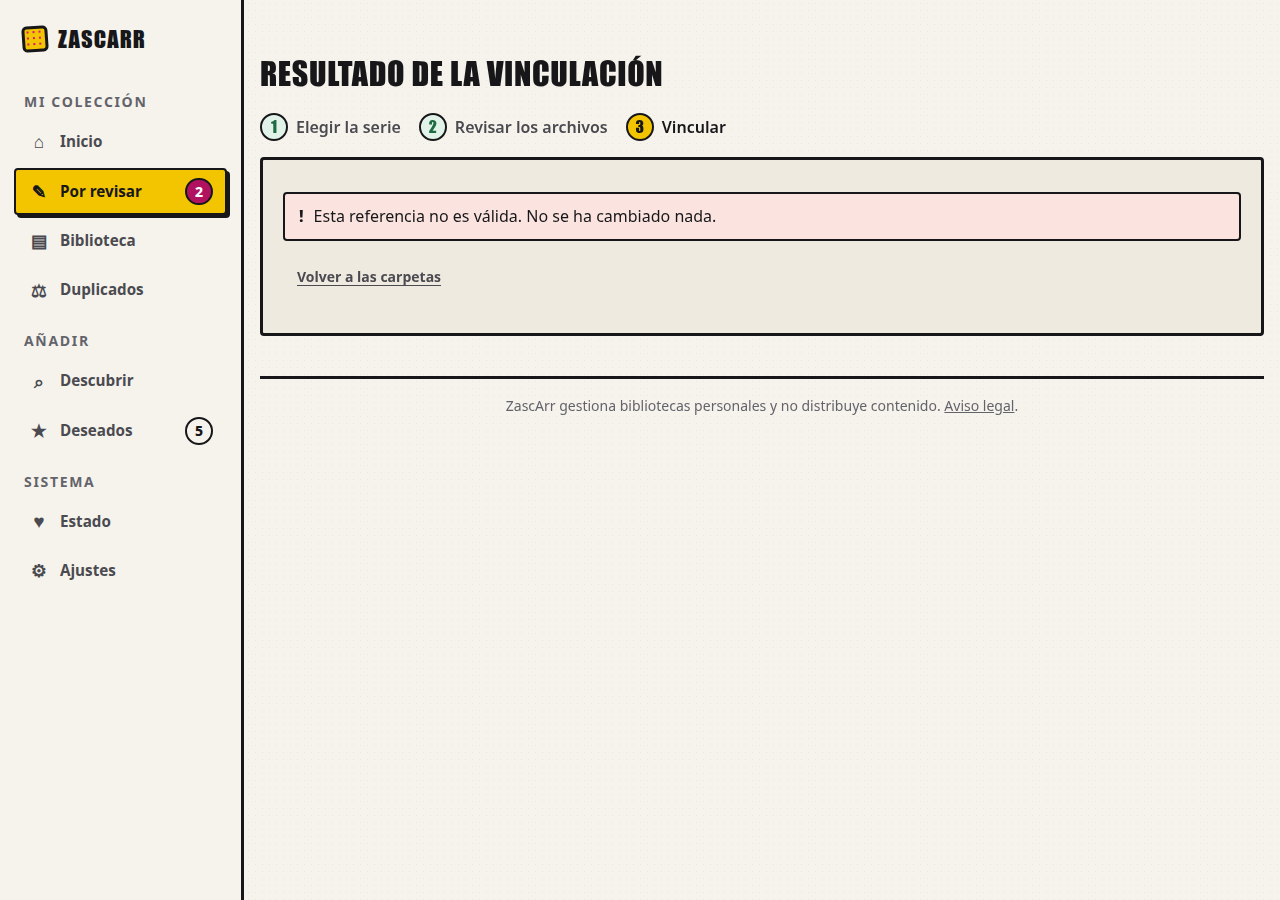
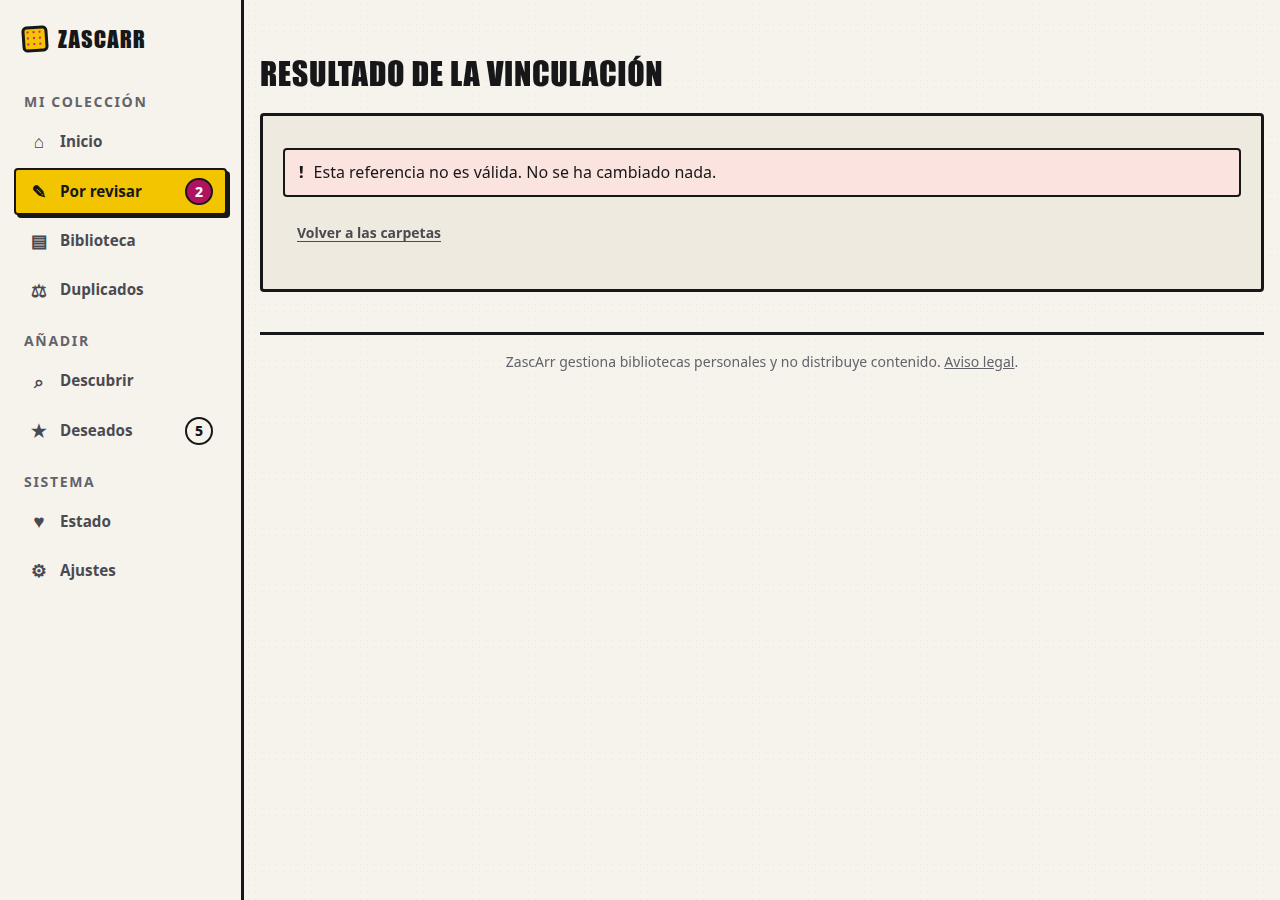
u19: textos largos como nota discreta, datos simulados coherentes y ruff sin deuda nueva

Changed region(s): [[0.1875, 0.1244, 1.0, 0.3733], [0.2188, 0.3733, 0.9688, 0.4667]]

diff --git a/src/zascarr/web/templates/_asistente_eleccion.html b/src/zascarr/web/templates/_asistente_eleccion.html
@@ -11,7 +11,7 @@
     {% if eleccion_sugerida %}<dt>La fuente sugería</dt><dd>{{ eleccion_sugerida }} (era solo una sugerencia)</dd>{% endif %}
   </dl>
   {% include plantilla %}
-  <p class="caption">Puedes recargar o volver a esta vista previa sin perder la elección durante 15 minutos: <a href="/ui/pendientes/carpetas/asistente/alta?clave={{ clave | urlencode }}&amp;candidata={{ candidata | urlencode }}&amp;tradition={{ tradition | urlencode }}{% if consulta %}&amp;consulta={{ consulta | urlencode }}{% endif %}">enlace a esta vista previa</a>.</p>
+  <p class="muted">Puedes recargar o volver a esta vista previa sin perder la elección durante 15 minutos: <a href="/ui/pendientes/carpetas/asistente/alta?clave={{ clave | urlencode }}&amp;candidata={{ candidata | urlencode }}&amp;tradition={{ tradition | urlencode }}{% if consulta %}&amp;consulta={{ consulta | urlencode }}{% endif %}">enlace a esta vista previa</a>.</p>
   <p><a class="btn ghost sm" href="/ui/pendientes/carpetas/asistente?clave={{ clave | urlencode }}{% if consulta %}&amp;consulta={{ consulta | urlencode }}{% endif %}">Elegir otra</a>
      <a class="btn ghost sm" href="/ui/pendientes/carpetas">Volver a las carpetas</a></p>
 </div>

diff --git a/src/zascarr/web/templates/_vinculacion_resultado.html b/src/zascarr/web/templates/_vinculacion_resultado.html
@@ -54,7 +54,7 @@
       {% if t.issues_creados %}<li data-total="issues_creados">{{ ui.chip("info", t.issues_creados ~ " números nuevos en la serie") }}</li>{% endif %}
     </ul>
     <p class="caption">Vincular conserva el nombre y la carpeta de cada archivo: no se ha movido ni renombrado nada.</p>
-    {% if ref %}<p class="caption">Si recargas o vuelves a esta pantalla, el resultado sigue disponible mientras no venza el plazo de 24 horas desde que se preparó la vinculación: <a href="{{ ruta_resultado }}?ref={{ ref | urlencode }}">enlace a este resultado</a>.</p>{% endif %}
+    {% if ref %}<p class="muted">Si recargas o vuelves a esta pantalla, el resultado sigue disponible mientras no venza el plazo de 24 horas desde que se preparó la vinculación: <a href="{{ ruta_resultado }}?ref={{ ref | urlencode }}">enlace a este resultado</a>.</p>{% endif %}
   </section>
 
   {% if grupos.vinculado %}

diff --git a/src/zascarr/web/templates/asistente_carpeta.html b/src/zascarr/web/templates/asistente_carpeta.html
@@ -39,7 +39,7 @@
     <input id="asistente-consulta" type="search" name="consulta" maxlength="200" value="{{ consulta_escrita or apertura.consulta_propuesta }}"
            placeholder="Título de la serie…" autocomplete="off">
     {% if consulta_escrita %}
-    <p class="caption">Es la búsqueda que escribiste. Los resultados no se conservan —buscar de nuevo consulta las fuentes—: pulsa «Buscar en las fuentes» si quieres repetirla.</p>
+    <p class="muted">Es la búsqueda que escribiste. Los resultados no se conservan —buscar de nuevo consulta las fuentes—: pulsa «Buscar en las fuentes» si quieres repetirla.</p>
     {% elif apertura.consulta_propuesta %}
     <p class="caption">Propuesta a partir del nombre de la carpeta o de los archivos. Puedes cambiarla antes de buscar.</p>
     {% else %}

diff --git a/src/zascarr/web/templates/asistente_alta.html b/src/zascarr/web/templates/asistente_alta.html
@@ -12,7 +12,7 @@
   <h2 id="alta-carpeta">{{ clave }}</h2>
   {% if aviso %}
   {{ ui.aviso("warn", aviso) }}
-  <p class="caption">«Volver a elegir» abre el asistente con tu búsqueda escrita, pero no la lanza: buscar de nuevo consulta las fuentes y lo decides tú.</p>
+  <p class="muted">«Volver a elegir» abre el asistente con tu búsqueda escrita, pero no la lanza: buscar de nuevo consulta las fuentes y lo decides tú.</p>
   {% else %}
   {% include plantilla %}
   {% endif %}

diff --git a/docs/design/ui-u19/fragmentos_u19.py b/docs/design/ui-u19/fragmentos_u19.py
@@ -37,15 +37,15 @@ CLAVE_GRUPO = "_Unsorted"
 def main(fichero_clave: str, serie_id: str, titulo_local: str, salida: str) -> None:
     secreto = open(fichero_clave, encoding="utf-8").read().strip()
 
-    def tok(id_, titulo, anio):
-        return crear_token_candidata(CLAVE_GRUPO, candidata_firmable("comic_vine", id_, titulo, anio, "american", None, None), secreto)
+    def tok(fuente, id_, titulo, anio, tradicion):
+        return crear_token_candidata(CLAVE_GRUPO, candidata_firmable(fuente, id_, titulo, anio, tradicion, None, None), secreto)
 
     parecida = SerieParecida(series_id=serie_id, titulo=titulo_local, anio=2015, tradicion="american", motivo="mismo_titulo")
     candidatas = [
-        Candidata(token=tok("4050", "Mundo Cobalto", 2015), fuente="comic_vine", titulo="Mundo Cobalto", anio=2015,
+        Candidata(token=tok("comic_vine", "4050", "Mundo Cobalto", 2015, "american"), fuente="comic_vine", titulo="Mundo Cobalto", anio=2015,
                   tradicion_sugerida="american", sitio_url=None, portada=None, descripcion="Serie de ensayo (simulada).",
                   ya_en_biblioteca=None, parecidas_locales=[parecida], coincidencia_con_la_carpeta=Coincidencia(en_conflicto=False, senales=[])),
-        Candidata(token=tok("9001", "Mundo Cobalto Integral", 2020), fuente="tebeosfera", titulo="Mundo Cobalto Integral", anio=2020,
+        Candidata(token=tok("tebeosfera", "mundo-cobalto-integral", "Mundo Cobalto Integral", 2020, "tebeo"), fuente="tebeosfera", titulo="Mundo Cobalto Integral", anio=2020,
                   tradicion_sugerida="tebeo", sitio_url=None, portada=None, descripcion=None,
                   ya_en_biblioteca=None, parecidas_locales=[], coincidencia_con_la_carpeta=Coincidencia(en_conflicto=False, senales=[])),
     ]

diff --git a/tests/test_u19_continuidad_pg.py b/tests/test_u19_continuidad_pg.py
@@ -24,29 +24,42 @@ import httpx
 import pytest
 from sqlalchemy import text
 
+from tests.test_asistente_confirmar_pg import confirmar, enviar, listo, numero_de  # noqa: F401
+from tests.test_asistente_vinculacion_pg import (  # noqa: F401
+    CLAVE,
+    SECRETO,
+    abrir,
+    archivos,
+    cliente,
+    entorno,
+    serie_de_prueba,
+    url_bd,
+)
 from tests.test_u19_recorrido_pg import (  # noqa: F401  (fixtures, vigilancia de fuentes y ayudas)
-    ref_de,
-    A,
-    UNO,
     DOS,
     TRES,
+    UNO,
+    A,
     V,
     _secreto_y_sin_red,
     _vigilar_las_fuentes,
     candidata,
     crear_alta,
     get,
+    ref_de,
     series,
     sin_fuentes,
     token_de_crear,
     visible,
 )
-from tests.test_asistente_confirmar_pg import confirmar, enviar, listo, numero_de  # noqa: F401
-from tests.test_asistente_vinculacion_pg import CLAVE, SECRETO, abrir, archivos, cliente, entorno, serie_de_prueba, url_bd  # noqa: F401
 from tests.test_vinculacion_pg import ent  # noqa: F401
 from tests.test_vinculacion_previa_pg import escrituras, huella_disco, instantanea
 from zascarr.models import ComicTradition
-from zascarr.services.tokens_revision import MAX_TOKEN_CANDIDATA_SIN_GRUPO, crear_token_candidata, candidata_firmable
+from zascarr.services.tokens_revision import (
+    MAX_TOKEN_CANDIDATA_SIN_GRUPO,
+    candidata_firmable,
+    crear_token_candidata,
+)
 
 URL = os.environ.get("TEST_DATABASE_URL")
 pytestmark = [

diff --git a/tests/test_u19_recorrido_pg.py b/tests/test_u19_recorrido_pg.py
@@ -208,7 +208,7 @@ class TestT8VolverAntesDelAlta:
     async def test_t8e_si_la_serie_aparece_o_desaparece_la_vista_previa_se_recalcula_y_lo_dice(self, ent):
         await archivos(ent, UNO)
         # entre la elección y volver, alguien creó la serie con ese identificador
-        sid = await serie_de_prueba(ent, comic_vine_id=4050)
+        await serie_de_prueba(ent, comic_vine_id=4050)
         r = await get(f"{A}/alta", clave=CLAVE, candidata=candidata(), tradition="american")
         v = visible(r.text)
         assert "Ya existe una serie con ese identificador" in v or "Se usará la serie que ya tienes" in v

diff --git a/src/zascarr/web/asistente_vinculacion.py b/src/zascarr/web/asistente_vinculacion.py
@@ -55,7 +55,11 @@ from zascarr.services.tokens_revision import (
     verificar_referencia_de_resultado,
     verificar_token_vinculacion,
 )
-from zascarr.services.vinculacion import RETENCION_HORAS, InformeDeOtraSerieError, VinculacionDeArchivos
+from zascarr.services.vinculacion import (
+    RETENCION_HORAS,
+    InformeDeOtraSerieError,
+    VinculacionDeArchivos,
+)
 from zascarr.services.vinculacion_previa import (
     LIMITE_ARCHIVOS,
     ArchivoAjenoError,
